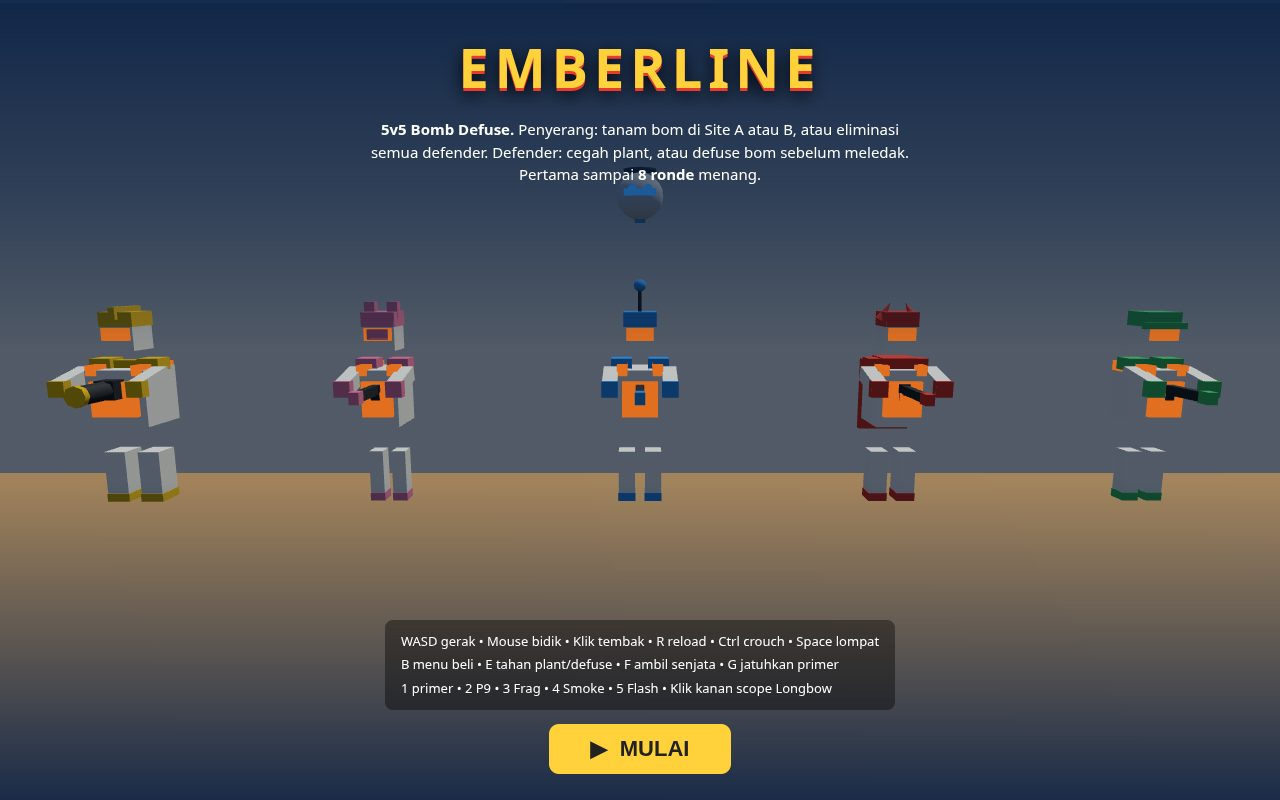
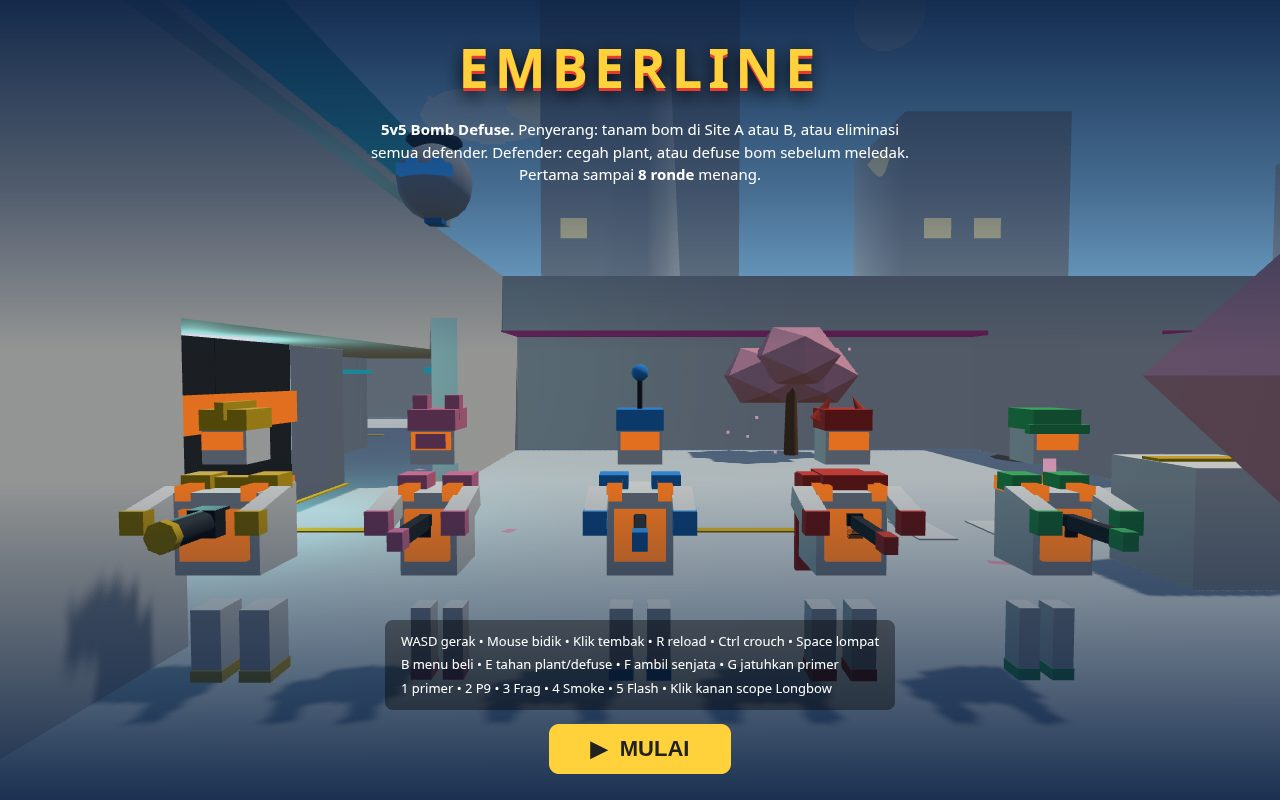
Menu: kamera + pose robot di dalam map (kota terlihat)
- 5 robot pindah dari apron selatan (z=50, di luar tembok) ke koridor
  Mid/A-long (z=29.5, x 33.2-38.8): kaki terbaca, kota jadi latar
- Kamera menu di dalam map (36,2.1,34.3) FOV 60, lihat ke utara:
  skyline + sakura + trim neon terbaca; apron coklat hilang
- Drone menu di atas baris robot (34.8,3,30.2)
- Verifikasi: shots/start-menu.jpg, calls 121 (v1: 133), 0 error

diff --git a/game/src/render.js b/game/src/render.js
@@ -247,18 +247,18 @@ export function createRender(canvas) {
   // drone kecil melayang di atas Mid (prop ambient, foto menu)
   const drone = buildDrone();
   drone.group.position.set(30, 6.8, 25); scene.add(drone.group);
-  // 5 robot figure di layar awal (spec §8) — baris di apron selatan, kamera menu
+  // menu: 5 robot di dalam map, kota + menara jadi latar
   let menuMode = false;
   const menuRobots = [];
   for (let i = 0; i < 5; i++) {
     const r = buildRobot(i, 'atk');
-    r.group.position.set(31 + i * 2.5, 0, 50); // di depan dinding selatan, kota + menara jadi latar
-    r.group.rotation.y = -Math.PI / 2; // menghadap kamera menu (+Z)
+    r.group.position.set(33.2 + i * 1.4, 0, 29.5);
+    r.group.rotation.y = -Math.PI / 2;
     r.group.visible = false;
     scene.add(r.group); menuRobots.push(r);
   }
   const menuDrone = buildDrone();
-  menuDrone.group.position.set(36, 3.2, 50); menuDrone.group.visible = false;
+  menuDrone.group.position.set(34.8, 3, 30.2); menuDrone.group.visible = false;
   scene.add(menuDrone.group);
   const tracerGeo = new THREE.BoxGeometry(0.03, 0.03, 1);
   const tracers = [];
@@ -318,9 +318,9 @@ export function createRender(canvas) {
   const _v = new THREE.Vector3();
   function render(state, dt, now) {
     const p = state.agents[0];
-    if (menuMode) { // kamera menu: baris 5 robot + drone + kota di belakang
-      camera.position.set(36, 2.2, 57.5); camera.lookAt(36, 1.0, 50);
-      if (Math.abs(camera.fov - 55) > 0.1) { camera.fov = 55; camera.updateProjectionMatrix(); }
+    if (menuMode) { // menu: robot + kota + menara
+      camera.position.set(36, 2.1, 34.3); camera.lookAt(36, 1.93, 29.5);
+      if (Math.abs(camera.fov - 60) > 0.1) { camera.fov = 60; camera.updateProjectionMatrix(); }
     } else {
       const eyeH = p.crouch ? 1.08 : 1.68;
       camera.position.set(p.x, p.y + eyeH, p.z);
@@ -340,7 +340,7 @@ export function createRender(canvas) {
     drone.group.position.y = 6.8 + Math.sin(now * 1.1) * 0.3;
     drone.group.rotation.y = now * 0.3;
     ship.position.x = 20 + Math.sin(now * 0.05) * 8;
-    if (menuMode) menuDrone.group.position.y = 3.2 + Math.sin(now * 1.2) * 0.25;
+    if (menuMode) menuDrone.group.position.y = 3 + Math.sin(now * 1.2) * 0.25;
     // pintu Mid mengikuti s.door.open (0 tutup -> 1 buka)
     const o = state.door.open;
     doorL.position.set(30, 1.6, 24 - o * 2); doorR.position.set(30, 1.6, 26 + o * 2);
